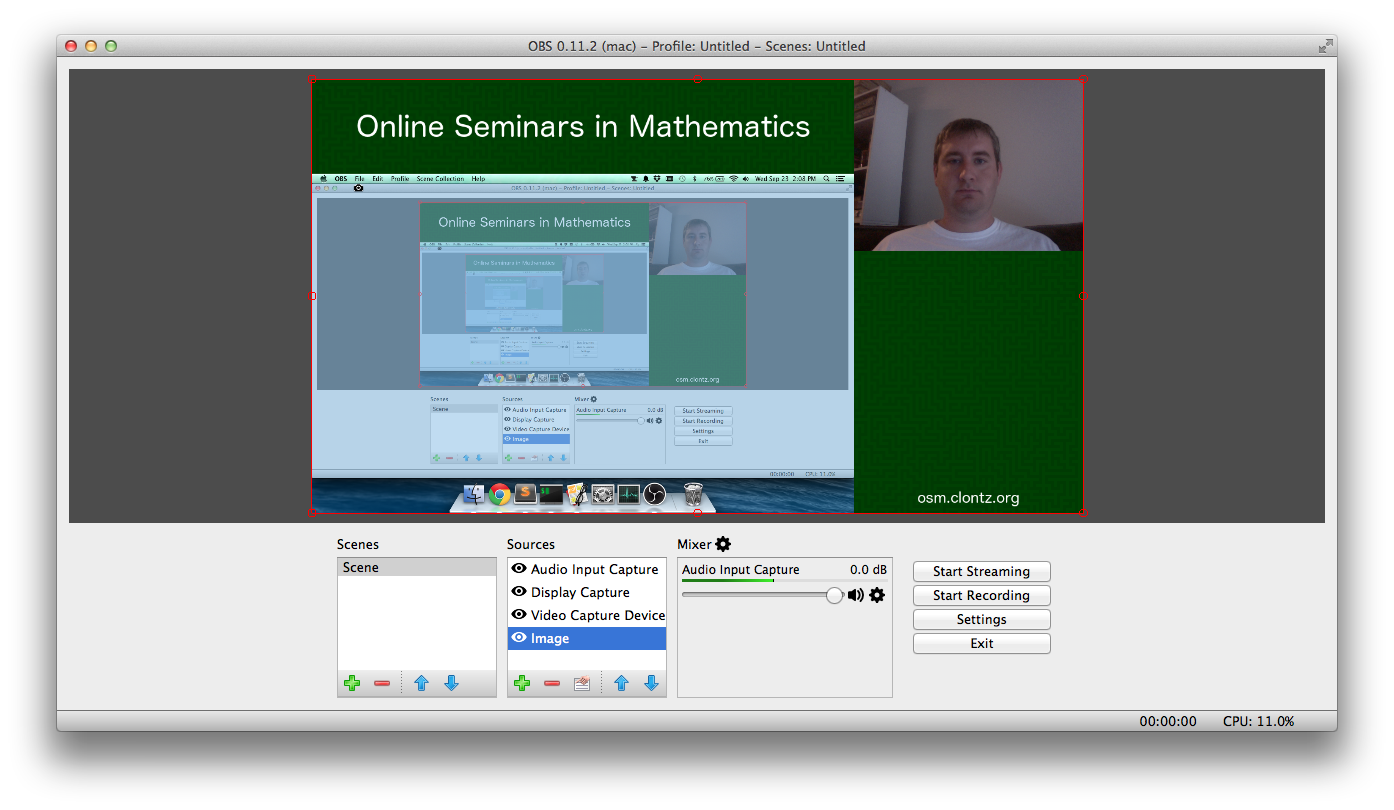
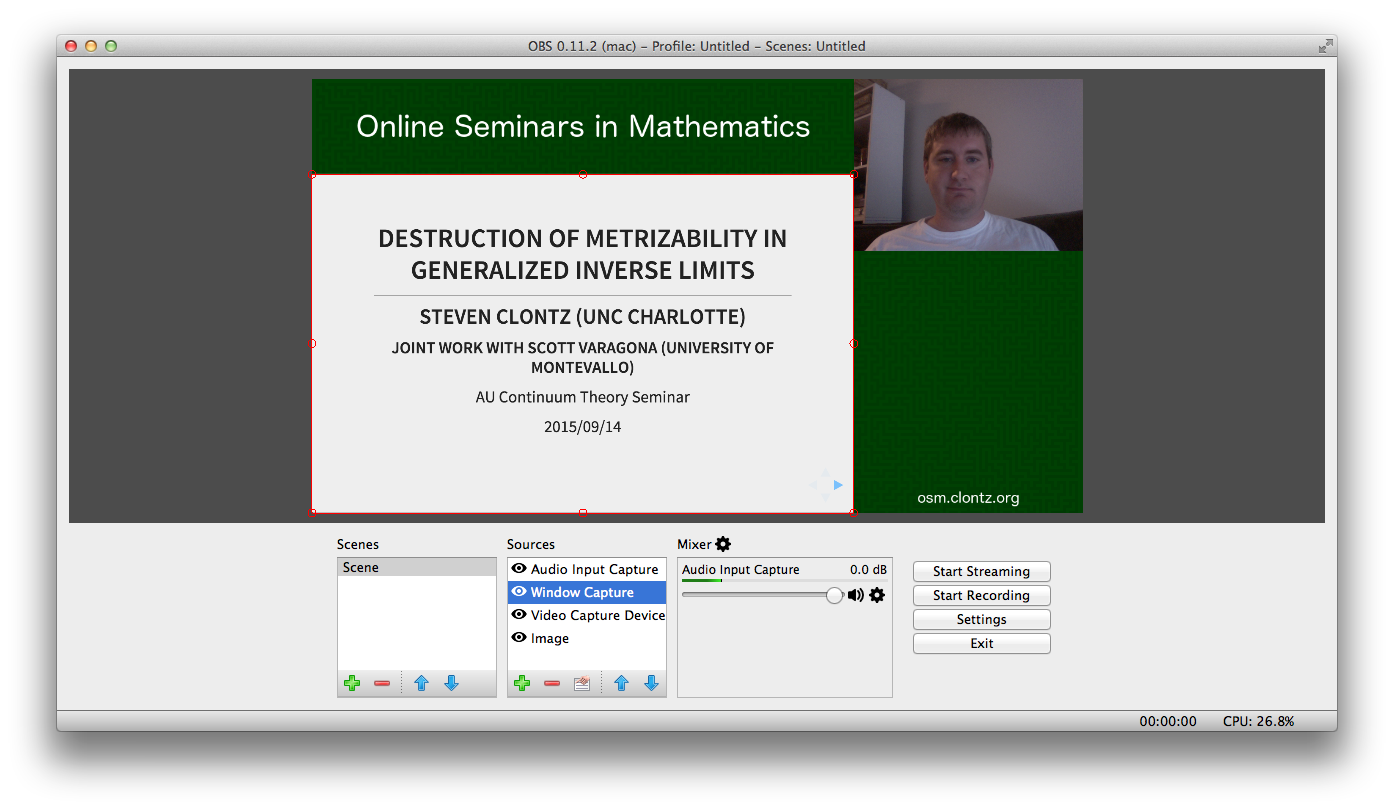
finish obs provisioning

diff --git a/README.md b/README.md
@@ -39,6 +39,8 @@ online format).
 * Both the speaker's MacBook and the moderator's device should have a modern
   web browser such as [Firefox](https://www.mozilla.org/en-US/firefox/)
   or [Chrome](https://www.google.com/chrome/browser/desktop/).
+* Whatever software is required to view the talk slides should be installed
+  on the speaker's Macbook.
 * To customize the OSM banner, install the
   [GNU Image Manipulation Program (GIMP)](http://www.gimp.org/downloads/)
   on the device of your choice.
@@ -89,7 +91,46 @@ to the speaker's Macbook.
 
 #### OBS Settings
 
+Open OBS, and the viewer (e.g. Adobe Acrobat, a web browser)
+for the presentation; do not set it to full screen yet.
+
+Add these four AV sources in this order to the Sources list:
+
+* Audio Input Capture (the input from the Macbook microphone)
+* Window Capture
+    * Select the window containing the talk slides.
+* Video Capture Device (the input from the Macbook webcam)
+* Image
+    * Select the default or customized OSM banner image.
+
+If possible, set the slides to full screen so that it is the right size
+for arranging the video sources. Arrange the video sources as seen in the
+screenshot below:
+
 ![OBS Screenshot](obs_screenshot.png)
+
+Then, set up OBS to send data to YouTube:
+
+* Click "Settings".
+* Go to the "Stream" tab and select the following:
+    * Service: YouTube
+    * Server: Primary YouTube ingest server
+    * Stream key: (the key similar to `account.name.g62d-x8z6-v6y9-3849`
+      that you copied earlier)
+* Go to the "Output" tab and select the following (leaving the rest as default):
+    * Output Mode: Simple
+    * Video Bitrate: 1500
+    * Audio Bitrate: 160
+    * Automatically Reconnect: [checked]
+    * Retry Delay (seconds): 10
+    * Maximum Retries: 20
+    * Enable Advanced Decoder Settings: [unchecked]
+* Go to the "Video" tab and select the following:
+    * Render: OpenGL
+    * Base Resolution: 1280x720
+    * Scaled Resolution: 1280x720
+    * Downscale Filter: Bicubic
+    * Common FPS Values: 30
 
 ## Running the stream
 
